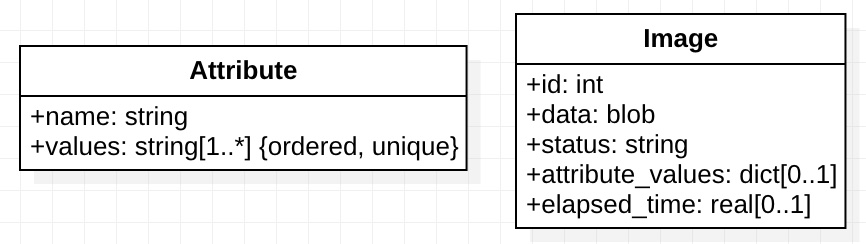
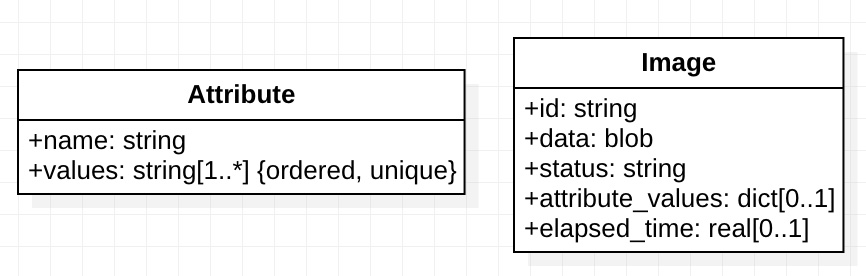
Update design doc.
Get rid of application/bson story.

Changed region(s): [[0.5924, 0.0287, 0.9977, 0.9467], [0.0, 0.1721, 0.5612, 0.7172]]

diff --git a/doc/4.design.md b/doc/4.design.md
@@ -85,21 +85,34 @@ forall
     * Request
         * URL: `/images`
         * Method: `POST`
-        * Content-Type: `application/bson`
+        * Content-Type: `image/<type>` | `application/zip`
         * Body:
-        ```
-        {
-          "data": blob,
-          "ext": string
-        }
-        ```
-        If `ext` is `zip` then `data` is treated as zip archive of images, otherwise as as single image with file extension `ext`.
     * Response
         * Success
             * Code: 201
+            * Content-Type: `application/json`
+            * Body:
+            ```
+            [
+              {
+                "id": string
+              },
+              ...
+            ]
+            ```
         * Failure
+            * Bad Input
+                * Code: 400
+                * Content-Type: `application/json`
+                * Body:
+                ```
+                {
+                  "message": string
+                }
+                ```
             * Internal Server Error
                 * Code: 500
+                * Content-Type: `application/json`
                 * Body:
                 ```
                 {
@@ -121,7 +134,7 @@ forall
             ```
             [
               {
-                "id": number,
+                "id": string,
                 "attribute_values": {
                   "attribute1": "value1",
                   ...
@@ -156,21 +169,16 @@ forall
     * Response
         * Success
             * Code: 200
-            * Content-Type: `application/bson`
-            * Body:
-            ```
-            [
-              {
-                "id": number,
-                "data": blob
-              },
-              ...
-            ]
-            ```
+            * Content-Type: `image/<type>`
         * Failure
             * Not Found
                 * Code: 404
                 * Content-Type: `application/json`
+                ```
+                {
+                  "message": string
+                }
+                ```
             * Internal Server Error
                 * Code: 500
                 * Content-Type: `application/json`
